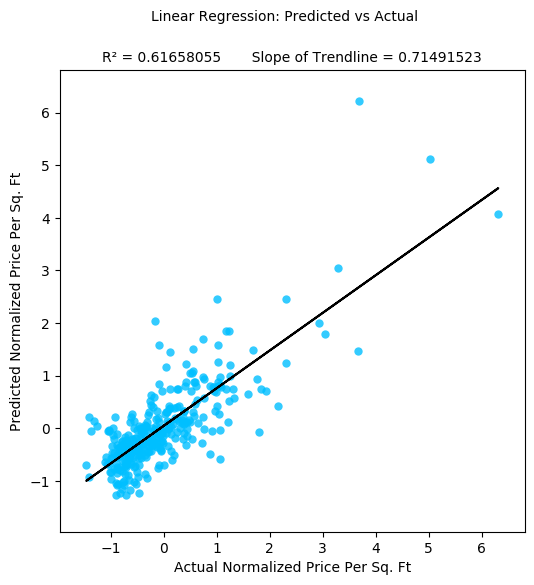
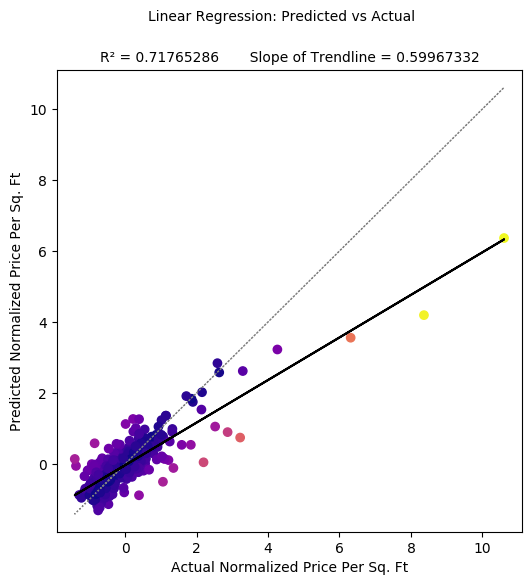
add color and target line for plotting

diff --git a/plotting.py b/plotting.py
@@ -1,6 +1,7 @@
 import numpy as np
 from sklearn.metrics import r2_score
 import matplotlib.pyplot as plt
+from scipy.interpolate import interp1d
 
 def plot_predictions(plot_data: dict,
     title: str='DEFAULT TITLE: Predicted vs Actual', filename: str=None):
@@ -16,12 +17,18 @@ def plot_predictions(plot_data: dict,
     y_test = plot_data['test']
     y_preds = plot_data['pred']
 
+    dists = np.abs(y_test - y_preds)
+    MIN, MAX = dists.min(), dists.max()
+    m = interp1d([MIN, MAX], [0,1])
+    dists = m(dists)
+
     r2 = r2_score(y_test, y_preds)
 
     plt.figure(figsize=(6,6))
-    plt.scatter(y_test, y_preds, color='deepskyblue', alpha=0.8, linewidths=0)
+    plt.scatter(y_test, y_preds, c=dists, cmap=plt.get_cmap('plasma'))
 
     m, b = np.polyfit(y_test, y_preds, 1)
+    plt.plot(y_test, y_test, color='gray', linestyle='dotted', linewidth=1)
     plt.plot(y_test, (m*y_test + b), color='black')
 
     axis_max = max([max(y_test), max(y_preds)]) + 0.5
